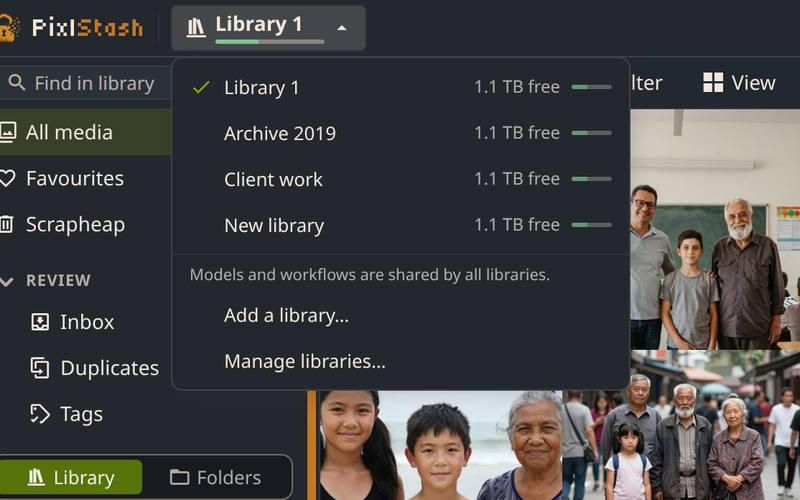
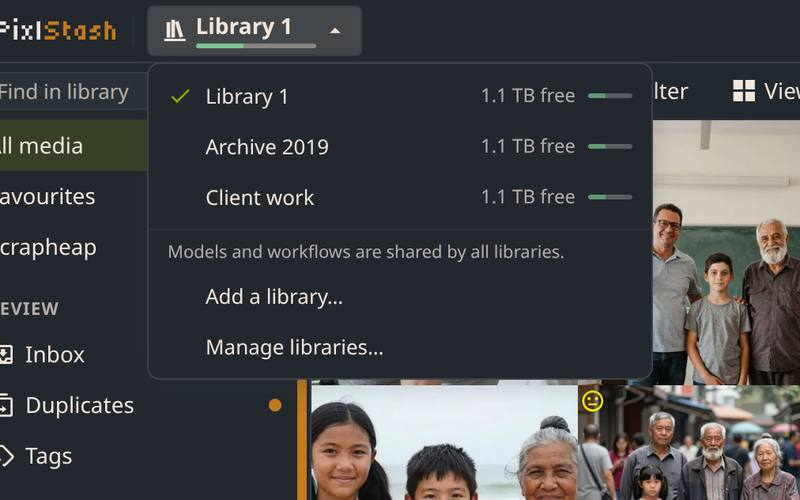
Guide shots: detach the throwaway library; libraries shot shows three

diff --git a/frontend/e2e/screenshots/guide.spec.js b/frontend/e2e/screenshots/guide.spec.js
@@ -501,6 +501,14 @@ test.describe('guide illustrations', () => {
           await page.goto('/')
           await expect(page.locator('.thumbnail-img').first()).toBeVisible({ timeout: 60_000 })
         }
+        // `import-pictures` registers a throwaway library: detach it (never the
+        // active one, which the API refuses) so later shots list only theirs.
+        const listed = await (await apiContext.get('/api/v1/libraries')).json()
+        for (const library of listed.libraries) {
+          if (library.name !== 'New library' || library.uuid === home.uuid) continue
+          const removed = await apiContext.delete(`/api/v1/libraries/${library.uuid}`)
+          expect(removed.ok(), `could not detach the throwaway library: ${removed.status()}`).toBe(true)
+        }
       }
     })
   }
